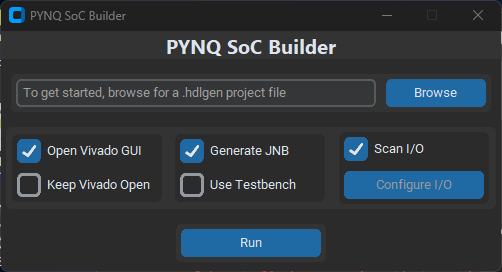
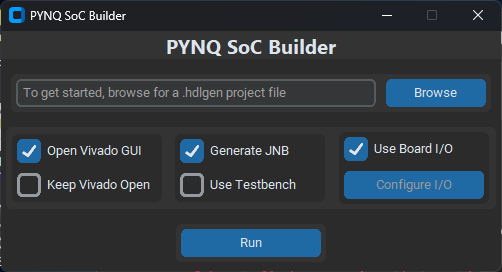
new image, major menu update, new io config window

Changed region(s): [[0.0598, 0.0294, 0.239, 0.0882], [0.747, 0.5294, 0.9263, 0.5882], [0.9263, 0.0294, 0.9562, 0.0882]]

diff --git a/main_gui.py b/main_gui.py
@@ -4,6 +4,7 @@ import threading
 import time
 import pynq_manager as pm
 import pyperclip
+import xml.dom.minidom
 
 ctk.set_appearance_mode("System")
 ctk.set_default_color_theme("blue")
@@ -31,6 +32,7 @@ class Application:
         # Shared flags
         self.build_running = False              # If build process is running, this flag will be True
         self.subprocess_exit_signal = threading.Event()    # If force closed, threading.Event() used to signal close to running threads.
+        self.io_config_set = False
 
         # Shared Tcl Generator Flags
         self.skip_board_config = False
@@ -67,6 +69,11 @@ class Application:
         else:
             self.toplevel_window.focus() # if window exists focus it.
         
+    def open_io_config_menu(self):
+        if self.toplevel_window is None or not self.toplevel_window.winfo_exists():
+            self.toplevel_window = IO_Config_Window(self) # Create window if None or destroyed
+        else:
+            self.toplevel_window.focus() # if window exists focus it.
 
     
     def on_close(self):
@@ -188,13 +195,13 @@ class Page1(ctk.CTkFrame):
                 use_testbench_check_box.configure(state="disabled")
             # self.app.checkbox_values = [open_gui_var.get(), keep_gui_open_var.get()]
             
-            if scan_io_var.get() == "off":
+            if use_io_var.get() == "on":
                 configure_io_button.configure(state="normal")
             else:
                 configure_io_button.configure(state="disabled")
 
             # Convert to true/false
-            self.app.checkbox_values = [open_gui_var.get() == "on", keep_gui_open_var.get() == "on", gen_jnb_var.get() == "on", use_testbench_var.get() == "on", scan_io_var.get() == "on"]
+            self.app.checkbox_values = [open_gui_var.get() == "on", keep_gui_open_var.get() == "on", gen_jnb_var.get() == "on", use_testbench_var.get() == "on", use_io_var.get() == "on"]
 
         # vivado config subframe
         viv_subframe = ctk.CTkFrame(row_3_frame, width=166)
@@ -231,13 +238,22 @@ class Page1(ctk.CTkFrame):
         use_testbench_check_box.grid(row=1, column=0, pady=5, padx=5, sticky = 'nswe')
 
         # io subframe
-        scan_io_var = ctk.StringVar(value="on")
-        scan_io_check_box = ctk.CTkCheckBox(io_subframe, text="Scan I/O", command=checkbox_event,
-                                    variable=scan_io_var, onvalue="on", offvalue="off", width=140)
-        scan_io_check_box.grid(row=0, column=0, pady=5, padx=5, sticky = 'nswe')
+        use_io_var = ctk.StringVar(value="on")
+        use_io_check_box = ctk.CTkCheckBox(io_subframe, text="Use Board I/O", command=checkbox_event,
+                                    variable=use_io_var, onvalue="on", offvalue="off", width=140)
+        use_io_check_box.grid(row=0, column=0, pady=5, padx=5, sticky = 'nswe')
+
+        def on_io_config_button():
+            self.app.hdlgen_path = entry_path.get()
+            if not os.path.isfile(entry_path.get()):
+                self.app.top_level_message = "Error: Could not find HDLGen file at path specified"
+                self.app.open_alert()
+                return
+            else:
+                self.app.open_io_config_menu()
 
         # config = ctk.StringVar(value="on")
-        configure_io_button = ctk.CTkButton(io_subframe, text="Configure I/O", command=self.on_io_config_button, width=140)
+        configure_io_button = ctk.CTkButton(io_subframe, text="Configure I/O", command=on_io_config_button, width=140)
         configure_io_button.grid(row=1, column=0, pady=5, padx=5, sticky = 'nswe')
 
         # run_button = ctk.CTkButton(row_last_frame, text="Run", command=_on_run_button)
@@ -278,12 +294,16 @@ class Page1(ctk.CTkFrame):
                 # Do nothing
                 pass
 
+        
+            
+            
+
+
         # Go Button
         run_button = ctk.CTkButton(row_last_frame, text="Run", command=_on_run_button)
         run_button.grid(row=0, column=0, pady=5, padx=5)
 
-    def on_io_config_button(self):
-        pass
+    
 
     def on_right_button_title_label(self, arg):
         # Second argument provided is the button press event, eg: <ButtonPress event state=Mod1 num=3 x=141 y=12>
@@ -566,6 +586,128 @@ class Dialog_Window(ctk.CTkToplevel):
         self.left_frame.grid(column=0, row=0)
         self.right_frame.grid(column=1, row=0)
         self.button_frame.grid(column=0, row=1, columnspan=2)
+
+class IO_Config_Window(ctk.CTkToplevel):
+    def __init__(self, app):
+        ctk.CTkToplevel.__init__(self, app.root)
+        self.app = app
+        self.title("Configure Board IO")
+        self.grab_set() # This makes the pop-up the primary window and doesn't allow interaction with main menu
+        self.geometry("500x300")
+        icon_font = ("Segoe Fluent Icons Regular", 80)
+        self.resizable(False, False) # Dont let the window be resizable
+        
+        # Need to learn the I/O thats available - What top level signals can we use.
+        # LED0: (dropdown) -> dropdown menu will contain all the signals as
+        #                                   count[3]
+        #                                   count[2]
+        #                                   count[1]
+        #                                   count[0]
+        #                                   TC
+        #                                   ceo
+
+        port_map = self.get_io_ports()
+        port_map_signals_names = [port[0] for port in port_map]
+
+        # Left frame
+        self.left_frame = ctk.CTkFrame(self, width=100, height=100)  # Left frame will contain checkbox for yes/no auto scanning + explaination
+
+        # Left frame set up
+        self.auto_io_checkbox = ctk.CTkCheckBox(self.left_frame, text="Auto Detect IO", width=100)
+        self.auto_io_checkbox.grid(row=0, column=0)
+        # text="In automatic mode, signals tagged with an IO related suffix (eg '_led') will be assigned to I/O. The suffix mapping is as follows:\n - _led: Any available port\n- _ledx: LEDx only (x=0,1,2,3)"
+        self.auto_io_label = ctk.CTkLabel(self.left_frame, wraplength=100, width=100, anchor="w", text="Sample Text")
+        self.auto_io_label.grid(row=1, column=0)
+        
+        # Right frame
+        self.right_frame = ctk.CTkFrame(self, width=200, height=100) # Right frame will contain manual config of signals
+
+        self.top_label = ctk.CTkLabel(self.right_frame, width=200, height=30, text="Configure IO Manually")
+        self.top_label.grid(row=0, column=0, columnspan=2, pady=5)
+
+
+        self.led_0_label = ctk.CTkLabel(self.right_frame, text="LED0", width=40)
+        self.led_1_label = ctk.CTkLabel(self.right_frame, text="LED1", width=40)
+        self.led_2_label = ctk.CTkLabel(self.right_frame, text="LED2", width=40)
+        self.led_3_label = ctk.CTkLabel(self.right_frame, text="LED3", width=40)
+
+        self.led_0_label.grid(row=1, column=0, pady=5)
+        self.led_1_label.grid(row=2, column=0, pady=5)
+        self.led_2_label.grid(row=3, column=0, pady=5)
+        self.led_3_label.grid(row=4, column=0, pady=5)
+
+        # mode_dropdown = ctk.CTkOptionMenu(self.row_2_frame, variable=mode_menu_var, values=self.mode_menu_options, command=on_mode_dropdown, width=150)
+        def _on_io_dropdown(args):
+            # handle dropdown event
+            pass
+
+        dropdown_options = port_map_signals_names
+        dropdown_options.insert(0, "No I/O")
+
+        self.led_0_var = ctk.StringVar(value="No I/O")
+        self.led_0_dropdown = ctk.CTkOptionMenu(self.right_frame, variable=self.led_0_var, values=dropdown_options, command=_on_io_dropdown)
+
+        self.led_1_var = ctk.StringVar(value="No I/O")
+        self.led_1_dropdown = ctk.CTkOptionMenu(self.right_frame, variable=self.led_1_var, values=dropdown_options, command=_on_io_dropdown)
+
+        self.led_2_var = ctk.StringVar(value="No I/O")
+        self.led_2_dropdown = ctk.CTkOptionMenu(self.right_frame, variable=self.led_2_var, values=dropdown_options, command=_on_io_dropdown)
+
+        self.led_3_var = ctk.StringVar(value="No I/O")
+        self.led_3_dropdown = ctk.CTkOptionMenu(self.right_frame, variable=self.led_3_var, values=dropdown_options, command=_on_io_dropdown)
+
+        self.led_0_dropdown.grid(row=1, column=1, pady=5)
+        self.led_1_dropdown.grid(row=2, column=1, pady=5)
+        self.led_2_dropdown.grid(row=3, column=1, pady=5)
+        self.led_3_dropdown.grid(row=4, column=1, pady=5)
+
+
+        # Right frame set up
+    	# Button handlers
+        def _on_save_button():
+            # Set the IO config in shared space.
+            # Close Window
+            # Set a flag to say that the config was defined.
+            self.destroy()
+
+        def _on_cancel_button():
+            # We don't care about setting any values
+            # If cancel pressed, simply close the menu.
+            self.destroy()  
+
+        self.button_frame = ctk.CTkFrame(self, width=300, height=50) # Button frame will remain the same as Dialog window
+
+        # Button placement
+        self.button_frame = ctk.CTkFrame(self, width=300, height=50)
+        self.save_button = ctk.CTkButton(self.button_frame, text="Yes", command=_on_save_button)
+        self.save_button.grid(row=0, column=0, pady=5, padx=5)
+        self.cancel_button = ctk.CTkButton(self.button_frame, text="No", command=_on_cancel_button)
+        self.cancel_button.grid(row=0, column=1, pady=5, padx=5)
+
+        self.left_frame.grid(column=0, row=0)
+        self.right_frame.grid(column=1, row=0)
+        self.button_frame.grid(column=0, row=1, columnspan=2)
+
+    def get_io_ports(self):
+        hdlgen = xml.dom.minidom.parse(self.app.hdlgen_path)
+        root = hdlgen.documentElement
+
+        # hdlDesign - entityIOPorts
+        hdlDesign = root.getElementsByTagName("hdlDesign")[0]
+        entityIOPorts = hdlDesign.getElementsByTagName("entityIOPorts")[0]
+        signals = entityIOPorts.getElementsByTagName("signal")
+
+        all_ports = []
+        for sig in signals:
+            signame = sig.getElementsByTagName("name")[0]
+            mode = sig.getElementsByTagName("mode")[0]
+            type = sig.getElementsByTagName("type")[0]
+            desc = sig.getElementsByTagName("description")[0]
+            all_ports.append(
+                [signame.firstChild.data, mode.firstChild.data, type.firstChild.data, desc.firstChild.data]
+            )
+    
+        return all_ports
 
 
 
